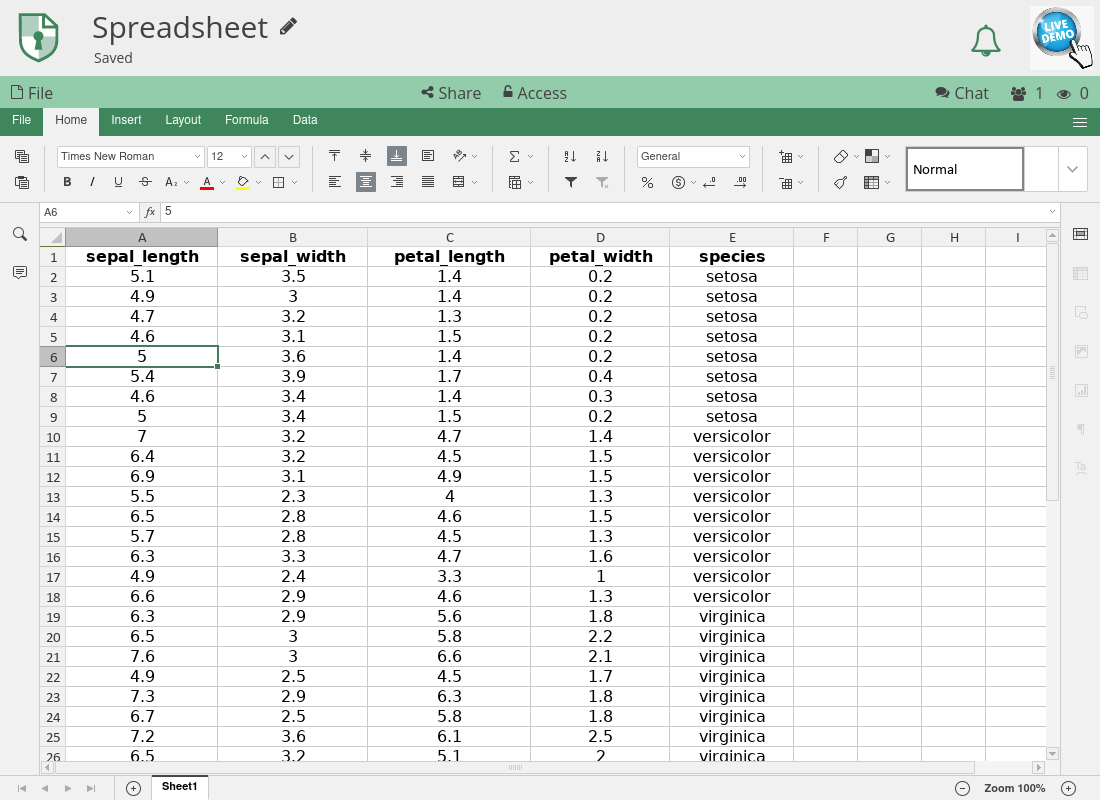
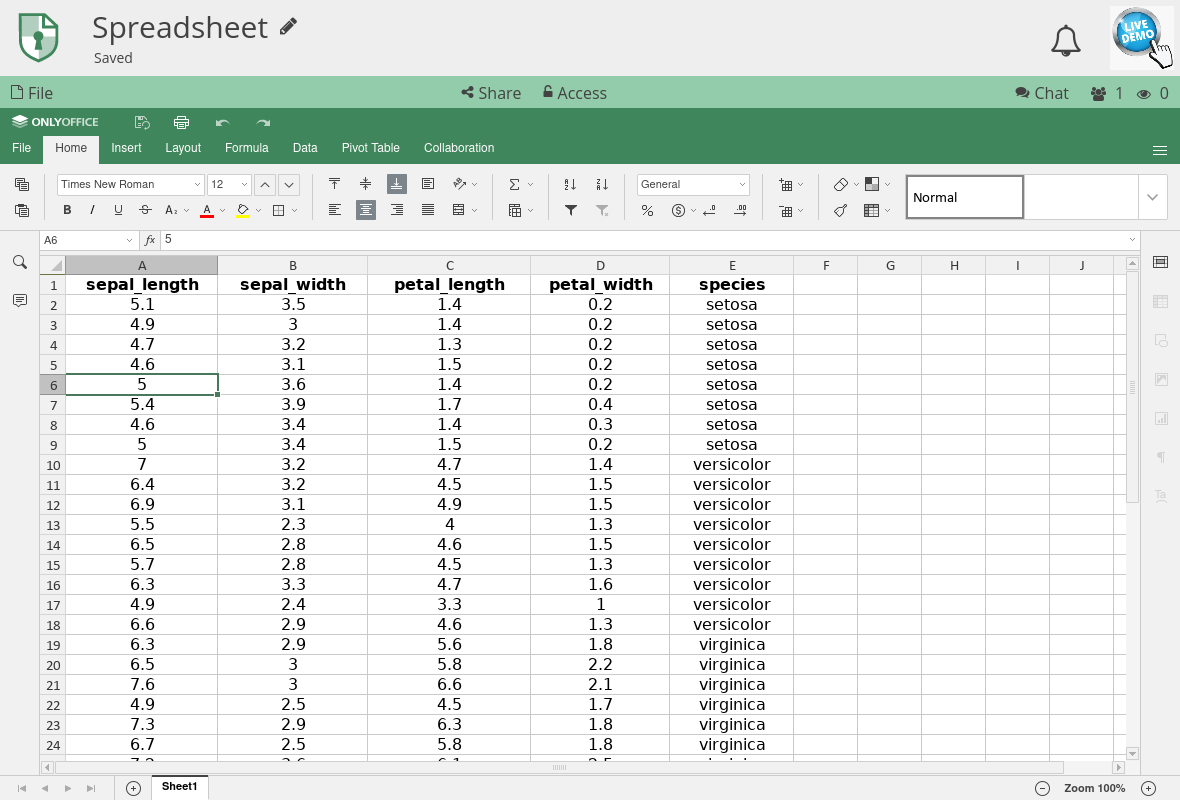
Add screenshots of new sheets toolbar

Changed region(s): [[0.0, 0.0, 1.0, 1.0], [0.8345, 0.0, 1.0, 0.125], [0.3709, 0.0938, 0.4945, 0.125]]

diff --git a/user_guide/apps/sheets.rst b/user_guide/apps/sheets.rst
@@ -24,13 +24,14 @@ Toolbars
 
 CryptPad integrates OnlyOffice spreadsheets into the same encrypted collaboration system as the other applications. Additionally OnlyOffice provides a wide range of functions in a tabbed toolbar. This results in a double toolbar that can cause confusion:
 
-.. XXX add spreadsheet toolbar screenshot
-
 - The topmost **CryptPad toolbar** is used for |file-o| **File** operations (including import/export, history, properties, etc) as well as |share-alt| **Share** and |unlock-alt| **Access**.
 - The **OnlyOffice toolbar** is used for all functionality within the spreadsheet document itself, as well as the collaboration modes explained in the next section.
 
 Undo and collaboration modes
 ----------------------------
+
+.. image:: /images/app-sheets-collab-mode.png
+   :class: screenshot
 
 OnlyOffice provides two collaborative editing modes in spreadsheets that affect how changes are synced between users and whether or not the **Undo** functionality is available.
 
